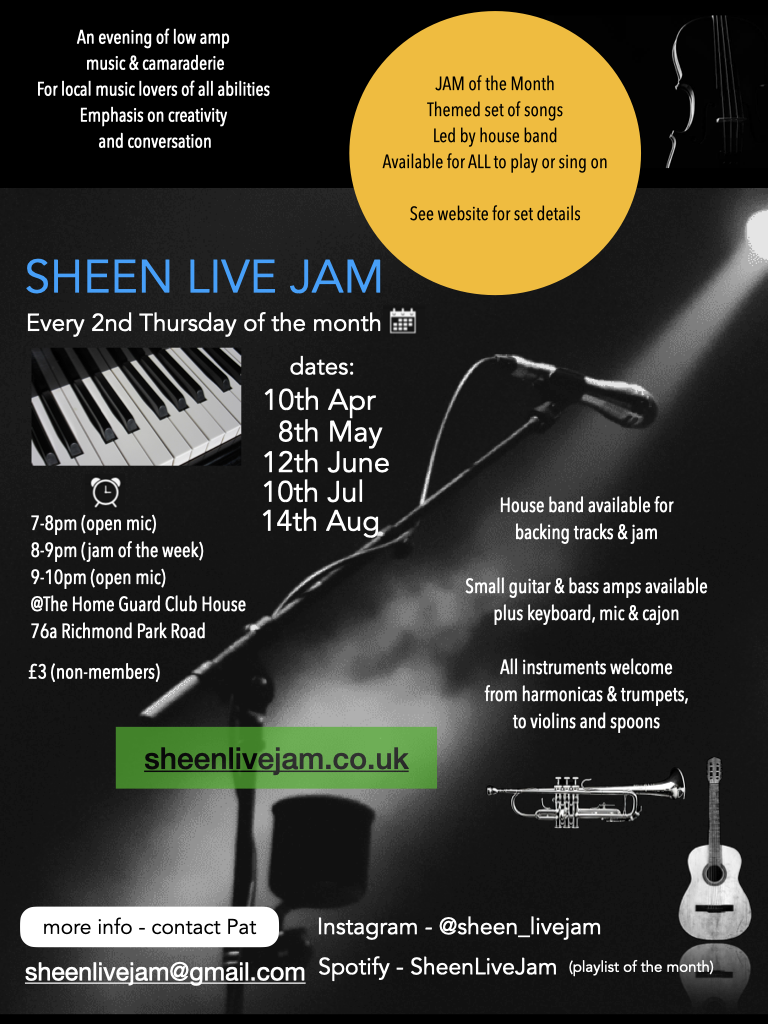
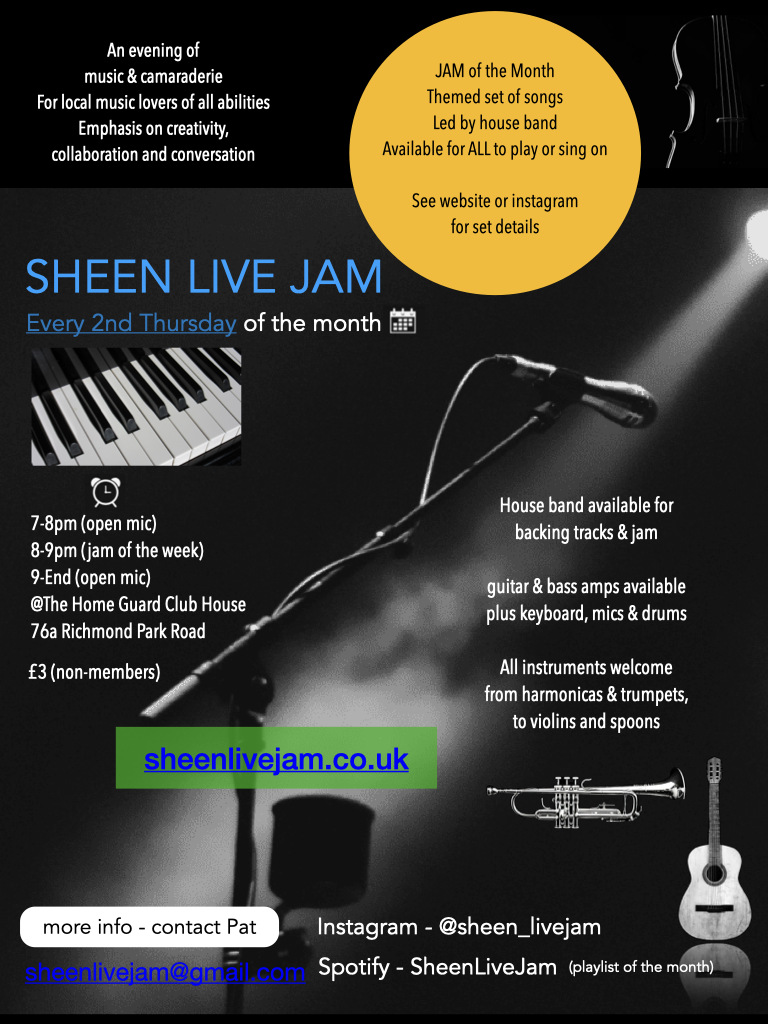
a year of updates

diff --git a/src/App.js b/src/App.js
@@ -202,29 +202,29 @@ function App() {
       theme: "Fleetwood Mac", 
       isPast: false,
       songs: [
-        "Don't Stop - Fleetwood Mac",
-        "Say You Love Me - Fleetwood Mac",
-        "Monday Morning - Fleetwood Mac",
-        "You Make Loving Fun - Fleetwood Mac",
-        "Rhiannon - Fleetwood Mac",
-        "The Chain - Fleetwood Mac"
+        "Don't Stop (DROP TO C)",
+        "Say You Love Me",
+        "Monday Morning",
+        "You Make Loving Fun",
+        "Rhiannon",
+        "The Chain"
       ],
       spotifyLink: "https://open.spotify.com/playlist/4nMIQCiPObFKvFGNlRVoCL?si=073a318a80884ac7"
     },
     {
       "month": "Nov",
       "year": 2025,
-      "theme": "The Cure",
+      "theme": "ABBA",
       "isPast": false,
       "songs": [
-        "Just Like Heaven - The Cure",
-        "Lovesong - The Cure",
-        "Boys Don't Cry - The Cure",
-        "Close To Me - The Cure",
-        "Friday I'm In Love - The Cure",
-        "Pictures of You - The Cure"
+        "Gimme! Gimme! Gimme! (A Man After Midnight)",
+        "Waterloo",
+        "Dancing Queen",
+        "Mamma Mia",
+        "Money Money Money",
+        "The Winner Takes It All"
       ],
-      "spotifyLink": "https://open.spotify.com/playlist/34hVN963HetM9Wc0rPugcq?si=88228d3fb1aa446c"
+      "spotifyLink": "https://open.spotify.com/playlist/47Kq2TrUHNBPnRnbXTY6TV?si=5ecb23898cf849d0"
     },
     {
       "month": "Dec",
@@ -233,12 +233,14 @@ function App() {
       "isPast": false,
       "songs": [
         "Last Christmas - Wham!",
-        "All I Want For Christmas Is You - Mariah Carey",
+        "White Christmas - Michael Buble",
         "Fairytale of New York - The Pogues",
         "Driving Home for Christmas - Chris Rea",
-        "Do They Know It's Christmas? - Band Aid"
+        "Do They Know It's Christmas? - Band Aid",
+        "Merry Christmas Everyone - Shakin Stevens",
+        "Santa Claus is Coming to Town",
       ],
-      "spotifyLink": "https://open.spotify.com/playlist/37i9dQZF1DX0Yxoavh5qJV"
+      "spotifyLink": "https://open.spotify.com/playlist/5iIIbF9ZiLvqjq0xHLVn4N?si=jZ8AnklqQGqmR8H4qVPakA"
     },
     {
       "month": "Jan",
@@ -247,12 +249,14 @@ function App() {
       "isPast": false,
       "songs": [
         "Every Breath You Take - The Police",
+        "Shape Of My Heart - Sting",
         "Englishman In New York - Sting",
         "Roxanne - The Police",
         "Fields of Gold - Sting",
-        "Message In A Bottle - The Police"
+        "Message In A Bottle - The Police",
+        "Let Your Soul Be Your Pilot - Sting"
       ],
-      "spotifyLink": "https://open.spotify.com/playlist/37i9dQZF1DWWC4fpGJmfQm"
+      "spotifyLink": "https://open.spotify.com/playlist/66cizzCnzFTyIvX7LksAPh?si=7bb878e40752401f"
     },
     {
       "month": "Feb",
@@ -264,9 +268,10 @@ function App() {
         "Changingman - Paul Weller",
         "Broken Stones - Paul Weller",
         "Wild Wood - Paul Weller",
-        "The Eton Rifles - The Jam"
+        "Going Underground - The Jam",
+        "Town Called Malice - The Jam",
       ],
-      "spotifyLink": "https://open.spotify.com/playlist/2RVsODdZW3kK6uBvmp6dcF"
+      "spotifyLink": "https://open.spotify.com/playlist/45L5duUz3ejvyEKNctrphD?si=9b4b3592e9cc499e"
     },
     {
       "month": "Mar",
@@ -274,14 +279,15 @@ function App() {
       "theme": "Pink Floyd and Pink",
       "isPast": false,
       "songs": [
-        "Comfortably Numb - Pink Floyd",
+        "What About Us - Pink",
         "Wish You Were Here - Pink Floyd",
-        "Another Break In the Wall - Pink Floyd",
+        "Another Brick In the Wall - Pink Floyd",
         "Just Give Me a Reason - Pink",
         "Money - Pink Floyd",
-        "So What - Pink"
+        "So What - Pink",
+        "The Great Gig in the Sky - Pink Floyd"
       ],
-      "spotifyLink": "https://open.spotify.com/playlist/6gOYPMDAGCq4eYRUYsMTkB"
+      "spotifyLink": "https://open.spotify.com/playlist/3JxxW4V5iXnAwyGWE9J6tm?si=b7f9d98ad6a24009"
     },
     {
       "month": "Apr",
@@ -289,13 +295,13 @@ function App() {
       "theme": "Country",
       "isPast": false,
       "songs": [
-        "Jolene - Dolly Parton",
+        "Achy Breaky Heart - Billy Ray Cyrus",
         "Take Me Home, Country Roads - John Denver",
-        "Before He Cheats - Carrie Underwood",
-        "Ring of Fire - Johnny Cash",
-        "Wagon Wheel - Darius Rucker"
+        "The Kiss - Faith Hill",
+        "Down to the River to Pray - Alison Krauss",
+        "Stand by Your Man - Tammy Wynette"
       ],
-      "spotifyLink": "https://open.spotify.com/playlist/37i9dQZF1DX13ZzXoot6Jq"
+      "spotifyLink": "https://open.spotify.com/playlist/1xBKhg7px0LjUj6c94MJSs?si=3e095f3317f743fe"
     },
     {
       "month": "May",
@@ -305,11 +311,11 @@ function App() {
       "songs": [
         "Don't You Want Me - The Human League",
         "Sweet Dreams (Are Made of This) - Eurythmics",
-        "Blue Monday - New Order",
+        "Take On Me - A-ha",
         "Tainted Love - Soft Cell",
         "Enjoy the Silence - Depeche Mode"
       ],
-      "spotifyLink": "https://open.spotify.com/playlist/37i9dQZF1DX11KGXrN36GT"
+      "spotifyLink": "https://open.spotify.com/playlist/4fZeSPDP99iCL9XokcSm8p?si=8098666b0300485e"
     },
   {
     month: "Jun",
@@ -322,9 +328,9 @@ function App() {
       "Everybody Hurts - R.E.M.",
       "The One I Love - R.E.M.",
       "It's the End of the World As We Know It (And I Feel Fine) - R.E.M.",
-      "Orange Crush - R.E.M."
+      "Shiny Happy People - R.E.M."
     ],
-    spotifyLink: "https://open.spotify.com/playlist/37i9dQZF1DZ06evO22khGL"
+    spotifyLink: "https://open.spotify.com/playlist/31ICyYuvifNat2qNwIZAGQ?si=e355456a6a06420a"
   },
   {
     month: "Jul",
@@ -339,7 +345,7 @@ function App() {
       "Sunday Bloody Sunday - U2",
       "One - U2"
     ],
-    spotifyLink: "https://open.spotify.com/playlist/37i9dQZF1DZ06evO3O2kHt"
+    spotifyLink: "https://open.spotify.com/playlist/4uX0Qc7qyfFSRutLC9gFid?si=e9947a7921e44cf3"
   },
   {
     month: "Aug",
@@ -347,14 +353,14 @@ function App() {
     theme: "George Michael & Wham",
     isPast: false,
     songs: [
-      "Careless Whisper - Wham! feat. George Michael",
+      "Careless Whisper - 1930's vintage version",
       "Wake Me Up Before You Go-Go - Wham!",
       "Faith - George Michael",
       "Freedom! '90 - George Michael",
-      "Last Christmas - Wham!",
-      "Father Figure - George Michael"
+      "Club Tropicana - Wham!",
+      "I'm Your Man - Wham!"
     ],
-    spotifyLink: "https://open.spotify.com/playlist/37i9dQZF1DZ06evO52vEn4"
+    spotifyLink: "https://open.spotify.com/playlist/4RVrrf43Gqt3HgW0Shd319?si=a6bc0269183743d0"
   },
   {
     month: "Sep",
@@ -363,47 +369,61 @@ function App() {
     isPast: false,
     songs: [
       "Smells Like Teen Spirit - Nirvana",
-      "All the Small Things - Blink-182",
-      "Pretty Fly (For a White Guy) - The Offspring",
-      "What's My Age Again? - Blink-182",
-      "Come As You Are - Nirvana",
-      "Self Esteem - The Offspring"
+      "Killing In The Name - Rage Against The Machine",
+      "The Kids Aren't Alright - The Offspring",
+      "Teenage Dirtbag - Wheatus",
+      "Alive - Pearl Jam",
+      "Basket Case - Green Day"
     ],
-    spotifyLink: "https://open.spotify.com/playlist/37i9dQZF1DZ06evOYNzT4Q"
+    spotifyLink: "https://open.spotify.com/playlist/31JhojOavFlTqdp2pp1nGQ?si=671e6de1e5064647"
   },
   {
     month: "Oct",
     year: 2026,
-    theme: "Broken Up Beatles",
+    theme: "Coldplay",
     isPast: false,
     songs: [
-      "Imagine - John Lennon",
-      "Live and Let Die - Paul McCartney",
-      "My Sweet Lord - George Harrison",
-      "Photograph - Ringo Starr",
-      "Band on the Run - Paul McCartney",
-      "All Things Must Pass - George Harrison"
+      "Yellow",
+      "Viva la Vida",
+      "Fix You",
+      "Adventure Of A Lifetime",
+      "Charlie Brown",
+      "Sky Full Of Stars"
     ],
-    spotifyLink: "https://open.spotify.com/playlist/37i9dQZF1DZ06evO0YeTW3"
+    "spotifyLink": "https://open.spotify.com/playlist/69XpnW3owZyYHVmxfKgxOy?si=e233cbdd921c413e"
   },
   {
     month: "Nov",
     year: 2026,
-    theme: "Coldplay",
+    theme: "Ozzy Ozbourne & Black Sabbath",
     isPast: false,
     songs: [
-      "Yellow - Coldplay",
-      "Viva la Vida - Coldplay",
-      "Fix You - Coldplay",
-      "The Scientist - Coldplay",
-      "Paradise - Coldplay",
-      "Clocks - Coldplay"
+      "Iron Man",
+      "War Pigs",
+      "Crazy Train",
+      "No More Tears",
+      "Paranoid",
     ],
-    spotifyLink: "https://open.spotify.com/playlist/37i9dQZF1DZ06evOYQKBya"
+    spotifyLink: "https://open.spotify.com/playlist/4ICQv0P8OrTIaJCTJ3zkgC?si=0a535f44b6624183"
   },
   {
     month: "Dec",
     year: 2026,
+    theme: "Christmas",
+    isPast: false,
+    songs: [
+      "TBD - Tommy D in charge",
+      "..",
+      "..",
+      "..",
+      "..",
+      ".."
+    ],
+    spotifyLink: "https://open.spotify.com/playlist/37i9dQZF1DZ06evOalnRkG"
+  },
+  {
+    month: "Jan",
+    year: 2027,
     theme: "Bee Gees",
     isPast: false,
     songs: [
@@ -415,21 +435,6 @@ function App() {
       "More Than a Woman - Bee Gees"
     ],
     spotifyLink: "https://open.spotify.com/playlist/37i9dQZF1DZ06evOalnRkG"
-  },
-  {
-    month: "Jan",
-    year: 2027,
-    theme: "ABBA",
-    isPast: false,
-    songs: [
-      "Dancing Queen - ABBA",
-      "Mamma Mia - ABBA",
-      "Gimme! Gimme! Gimme! (A Man After Midnight) - ABBA",
-      "Waterloo - ABBA",
-      "The Winner Takes It All - ABBA",
-      "Take a Chance on Me - ABBA"
-    ],
-    spotifyLink: "https://open.spotify.com/playlist/37i9dQZF1DZ06evOaAE1wB"
   },
   {
     month: "Feb",
@@ -460,6 +465,51 @@ function App() {
       "Sky Full of Stars - Coldplay"
     ],
     spotifyLink: "https://open.spotify.com/playlist/37i9dQZF1DZ06evOCy8u9t"
+  },
+  {
+    month: "Apr",
+    year: 2027,
+    theme: "The Cure",
+    isPast: false,
+    songs: [
+      "Just Like Heaven - The Cure",
+      "Lovesong - The Cure",
+      "Boys Don't Cry - The Cure",
+      "Close To Me - The Cure",
+      "Friday I'm In Love - The Cure",
+      "Pictures of You - The Cure"
+    ],
+    "spotifyLink": "https://open.spotify.com/playlist/34hVN963HetM9Wc0rPugcq?si=88228d3fb1aa446c"
+  },
+    {
+    month: "May",
+    year: 2027,
+    theme: "Female Icons",
+    isPast: false,
+    songs: [
+      "TBD e.g....",
+      "Tina Turner",
+      "Madonna",
+      "Spice Girls",
+      "Janis Joplin",
+      "Swift"
+    ],
+    "spotifyLink": "https://open.spotify.com/playlist/2w3oh7F0cA5YrHTuSbXRpB?si=af810a759ad14d0a"
+  },
+  {
+    month: "Jun",
+    year: 2027,
+    theme: "Broken Up Beatles",
+    isPast: false,
+    songs: [
+      "Imagine - John Lennon",
+      "Live and Let Die - Paul McCartney",
+      "My Sweet Lord - George Harrison",
+      "Photograph - Ringo Starr",
+      "Band on the Run - Paul McCartney",
+      "All Things Must Pass - George Harrison"
+    ],
+    spotifyLink: "https://open.spotify.com/playlist/37i9dQZF1DZ06evO0YeTW3"
   }
   ];
 
@@ -613,7 +663,7 @@ function App() {
                    @The Home Guard Club House<br />
                    76a Richmond Park Road</p>
                 <p><strong>Entrance:</strong><br />
-                   Members - Free, Guess £3 </p>
+                   Members - Free, Guess £5 </p>
               </div>
               <div className="social-links">
                 <p>Instagram - @sheen_livejam</p>
